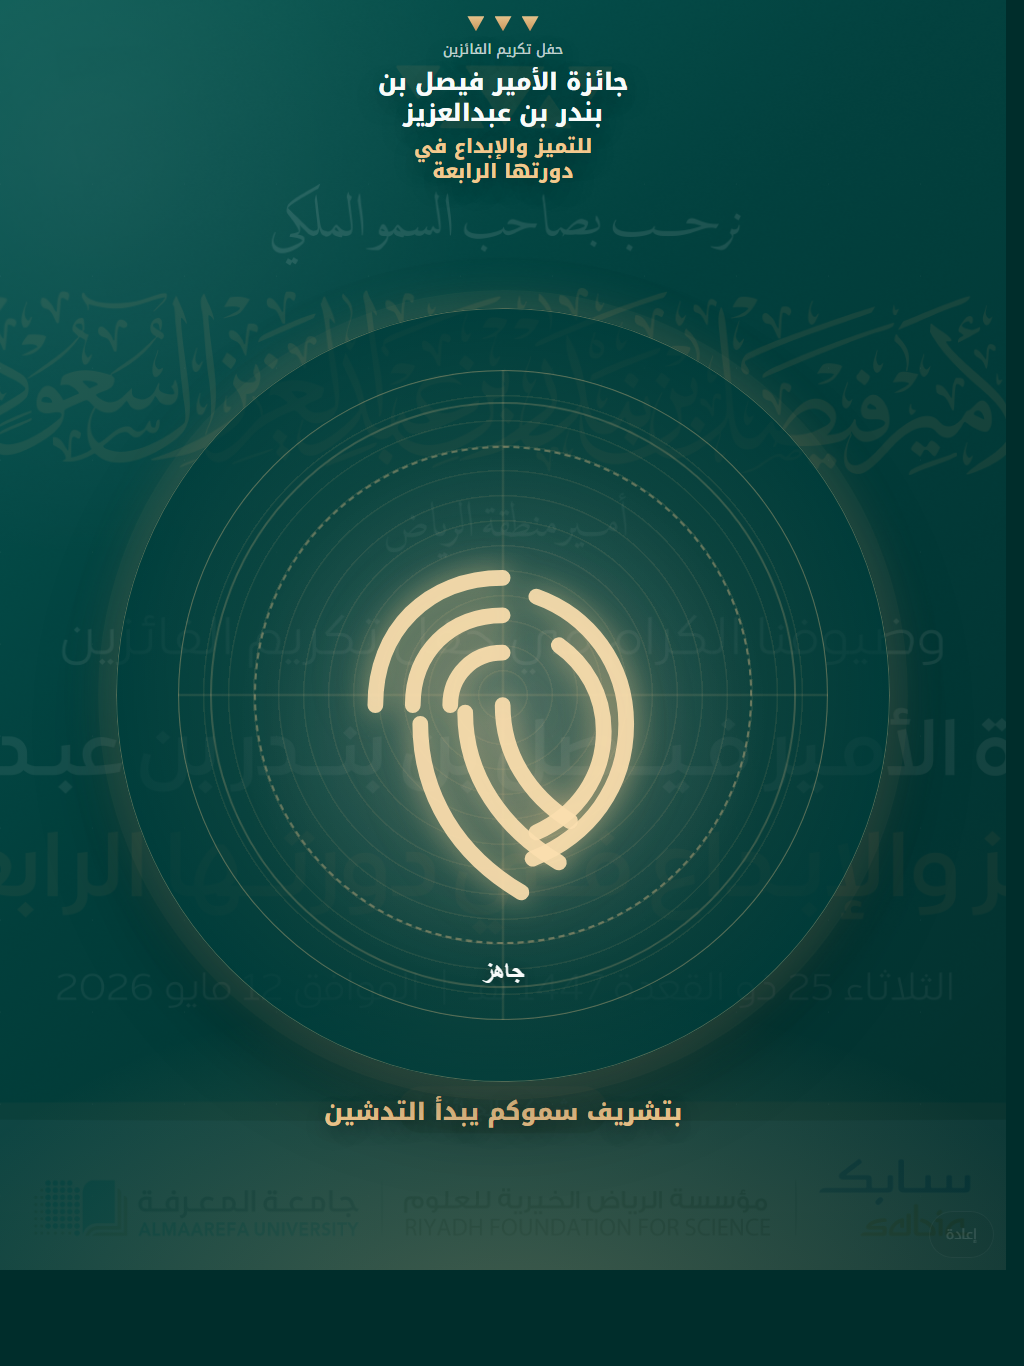
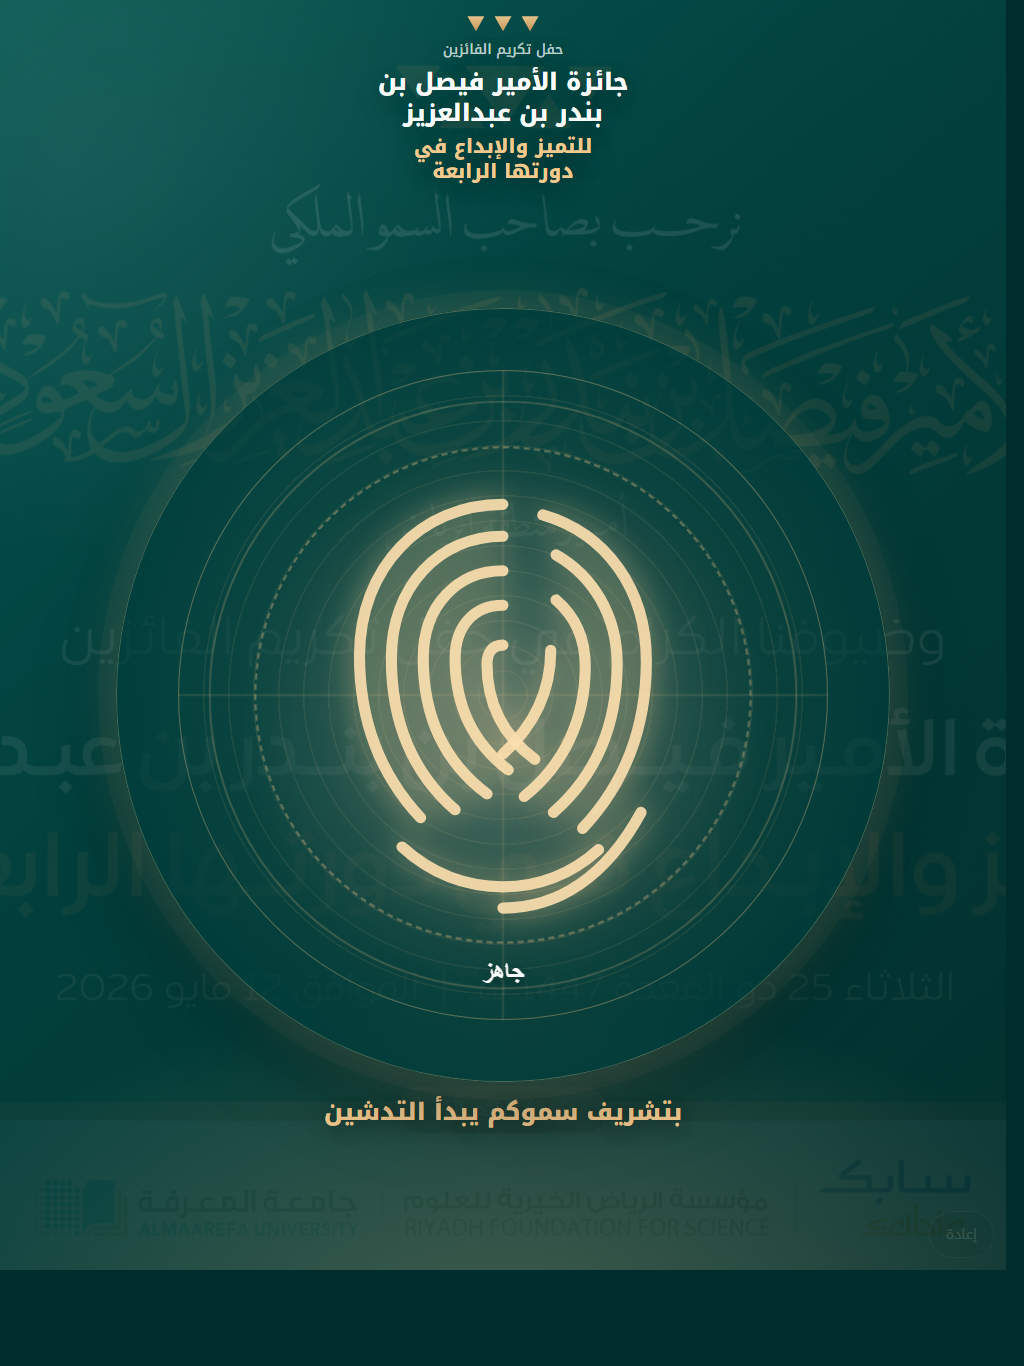
Use fingerprint vector and add vibration

Changed region(s): [[0.3125, 0.3382, 0.6562, 0.6764]]

diff --git a/index.html b/index.html
@@ -28,15 +28,18 @@
           <span class="halo halo-two"></span>
           <span class="scan-line"></span>
           <span class="touch-glow"></span>
-          <svg class="fingerprint-lines" viewBox="0 0 120 120" aria-hidden="true">
-            <path d="M60 30c20 0 34 14 34 34" />
-            <path d="M60 40c14 0 24 10 24 24" />
-            <path d="M60 50c8 0 14 6 14 14" />
-            <path d="M51 35c-14 5-24 18-24 34 0 17 10 30 25 36" />
-            <path d="M45 48c-7 5-12 13-12 23 0 12 7 22 18 27" />
-            <path d="M60 64c0 13-7 24-18 31" />
-            <path d="M70 66c0 17-10 31-25 40" />
-            <path d="M82 69c0 19-10 35-27 45" />
+          <svg class="fingerprint-lines" viewBox="0 0 140 180" aria-hidden="true">
+            <path d="M70 20c31 0 54 24 54 57 0 25-8 45-23 61" />
+            <path d="M70 32c24 0 42 19 42 46 0 24-8 43-24 57" />
+            <path d="M70 45c17 0 30 13 30 33 0 22-8 39-24 51" />
+            <path d="M70 58c11 0 18 8 18 20 0 18-7 32-20 42" />
+            <path d="M70 73c4 0 6 3 6 7 0 15-6 27-18 36" />
+            <path d="M55 24c-24 7-39 28-39 55 0 25 8 46 24 63" />
+            <path d="M50 39c-14 8-23 23-23 41 0 23 8 42 24 56" />
+            <path d="M50 56c-7 6-11 14-11 25 0 20 8 37 23 49" />
+            <path d="M52 75c0 15 6 28 18 39" />
+            <path d="M34 150c10 9 22 14 36 14 14 0 27-5 38-15" />
+            <path d="M18 136c13 24 31 36 52 36" />
           </svg>
           <span class="progress-ring" aria-hidden="true"></span>
           <span class="progress-text" id="progressText">جاهز</span>

diff --git a/script.js b/script.js
@@ -54,6 +54,12 @@
     }
   }
 
+  function vibrate(pattern) {
+    if ("vibrate" in navigator) {
+      navigator.vibrate(pattern);
+    }
+  }
+
   function requestFullScreen() {
     const root = document.documentElement;
     if (!document.fullscreenElement && root.requestFullscreen) {
@@ -66,6 +72,7 @@
     isRunning = true;
     event.preventDefault();
     requestFullScreen();
+    vibrate([90, 45, 140]);
     playLaunchSound();
     screen.dataset.state = "scanning";
     setProgress(0);
@@ -83,6 +90,7 @@
       window.setTimeout(() => {
         screen.dataset.state = "complete";
         statusLine.textContent = "تم التدشين";
+        vibrate([180, 70, 220]);
       }, 3000)
     );
   }

diff --git a/styles.css b/styles.css
@@ -270,7 +270,7 @@ body {
 .fingerprint-lines {
   position: absolute;
   z-index: 3;
-  width: 58%;
+  width: 48%;
   height: auto;
   transform: translateY(-1%) scaleX(-1);
   fill: none;
